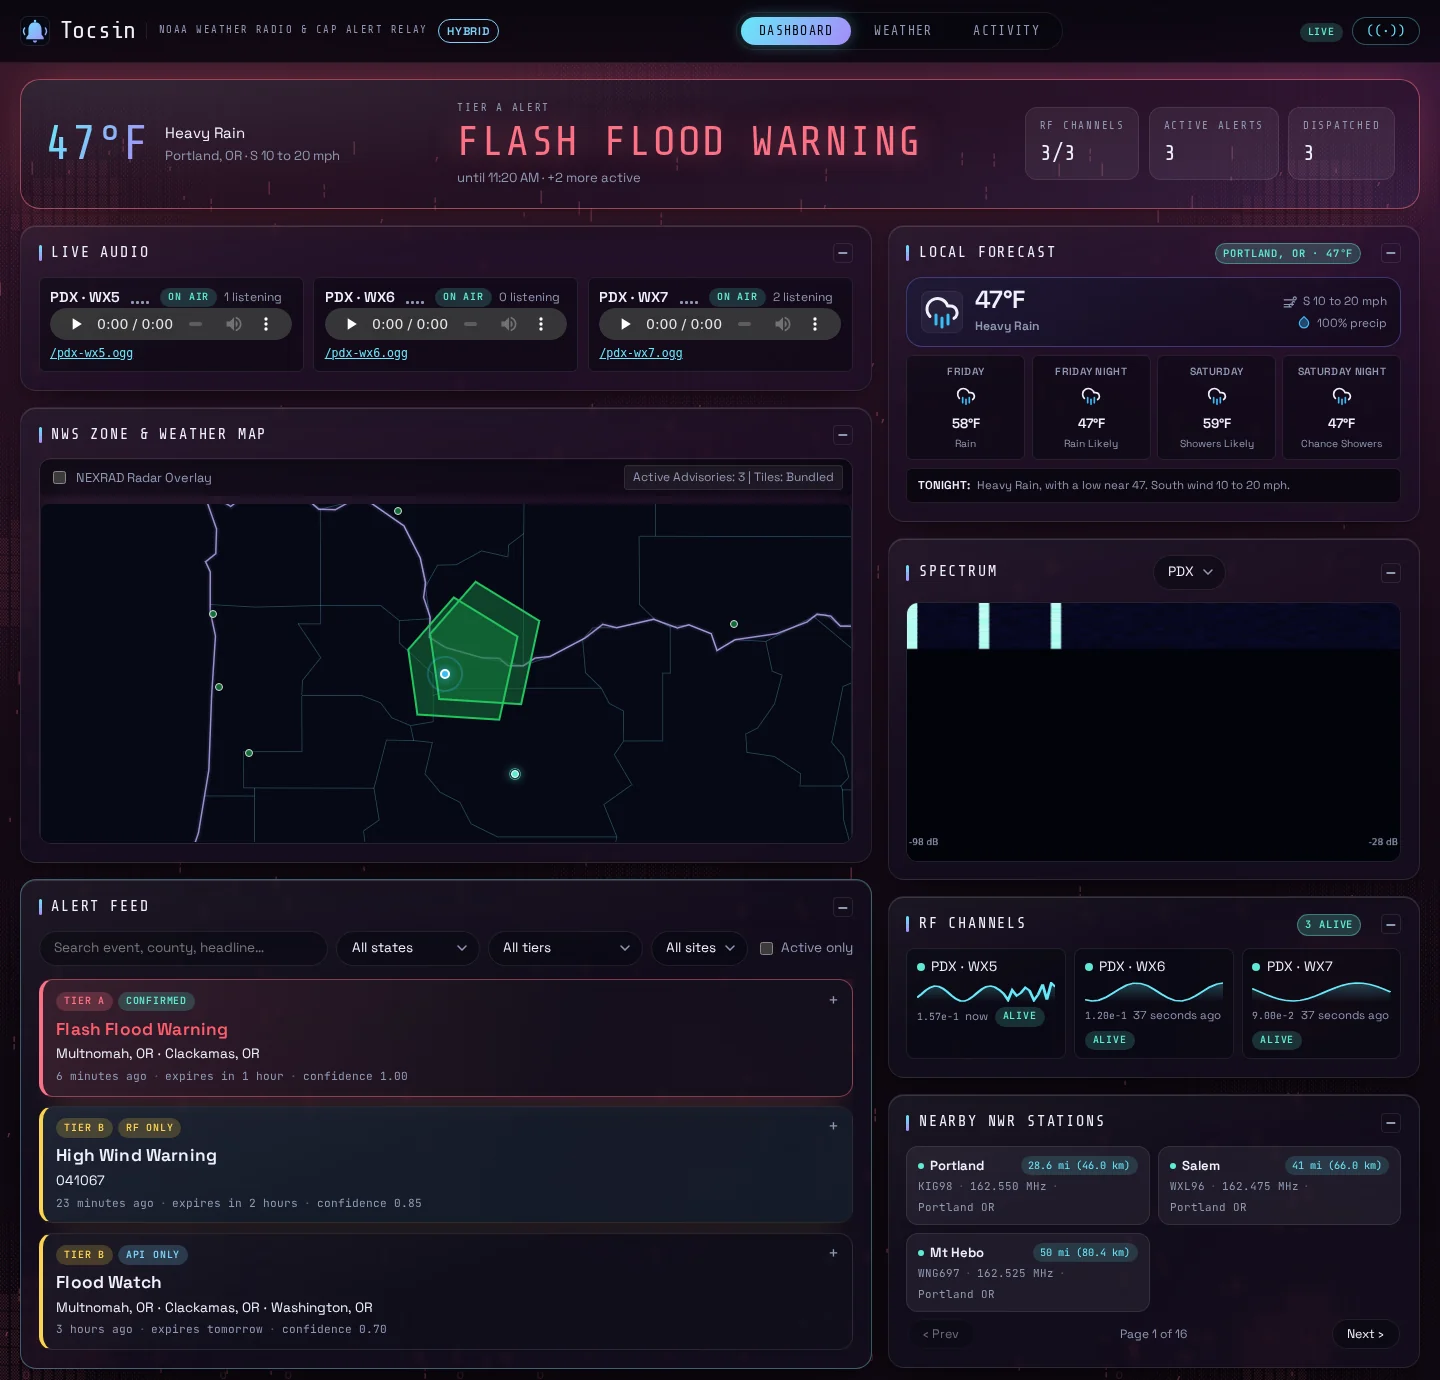
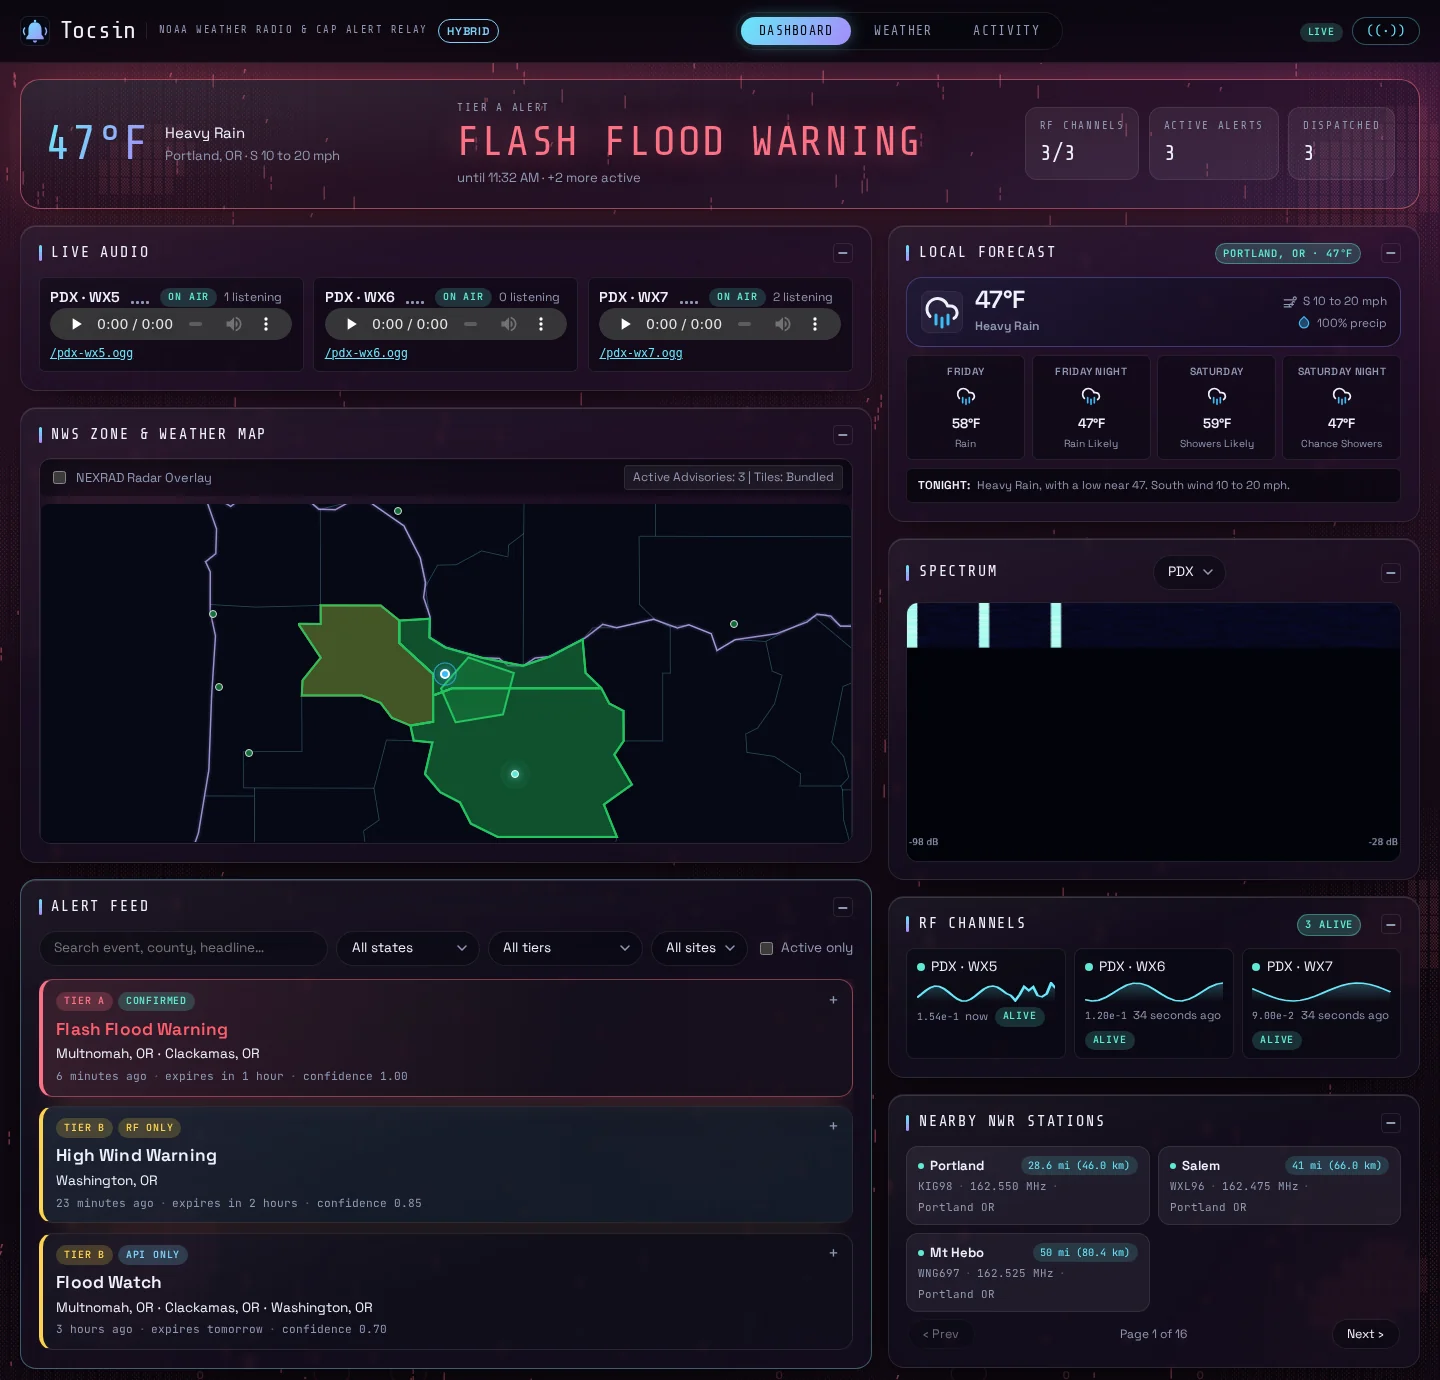
docs: README map description and screenshots show real county fills
Claude-Session: https://claude.ai/code/session_019KfRRJSHAHRBw7FtywS5g6

diff --git a/docs/design/tracking.md b/docs/design/tracking.md
@@ -2891,3 +2891,18 @@ verified). Phase 2's real-SAME-decode gap (the last thing this note used to flag
   synthetic forecast, in place of a tornado warning. With the air/fire cards now showing real
   data the Weather tab is shown in full. Live prod data was not used because the README is
   public and it would show the station's approximate location.
+
+### 2026-10-16 -- Alert areas on the map are real counties
+- Problem: the map drew alerts from UGC zone codes only. A few Portland-area forecast zones were
+  hand-drawn rough polygons (`zone_data.ts`) that were used in place of the real geometry (so
+  they looked like random blobs), and alerts with no UGC codes -- every radio-only alert,
+  including all of offgrid -- drew nothing at all.
+- Fix: `scripts/build-geo.sh` also emits `public/geo/us-county-shapes.json` (3,235 county
+  polygons keyed by GEOID, 1.1 MB / ~250 KB gzipped, loaded on first use). `county_shapes.ts`
+  resolves each alert's SAME codes (PSSCCC; part-of-county digit ignored, `000` county = whole
+  state) and `map.ts` fills those counties, Tier A on top, with the NWS storm polygon drawn over
+  them when the alert carries one. UGC zone geometry is only fetched for alerts with no county to
+  draw. `zone_data.ts` is deleted. The build script also now unzips with `python3 -m zipfile`
+  (the host has no `unzip`).
+- The dev mock's `/reference` counties were keyed by 6-digit SAME codes while the real API keys on
+  5-digit FIPS (`data/fips.csv`), which made radio-only alerts list raw codes in dev only; fixed.

diff --git a/README.md b/README.md
@@ -202,8 +202,10 @@ appears in a URL you type.
 three tabs, no client-side routing:
 
 - **Dashboard** -- live Icecast audio players, nearby NWR stations (sorted by distance once
-  `TOCSIN_LATITUDE`/`TOCSIN_LONGITUDE` are set), a MapLibre map of active NWS alert zones and
-  nearby transmitters on a bundled basemap (optional NEXRAD radar overlay), the alert feed
+  `TOCSIN_LATITUDE`/`TOCSIN_LONGITUDE` are set), a MapLibre map on a bundled basemap that fills
+  the counties each active alert was issued for (from its SAME codes, so radio-only alerts
+  show up offgrid too) with the exact NWS storm polygon on top when there is one, plus nearby
+  transmitters and an optional NEXRAD radar overlay, the alert feed
   (both provenance sources shown side by side, never merged), the spectrum waterfall,
   per-channel RF health, system health (the `RF_ONLY`/`API_ONLY` divergence rate), and
   dispatch outcomes.
